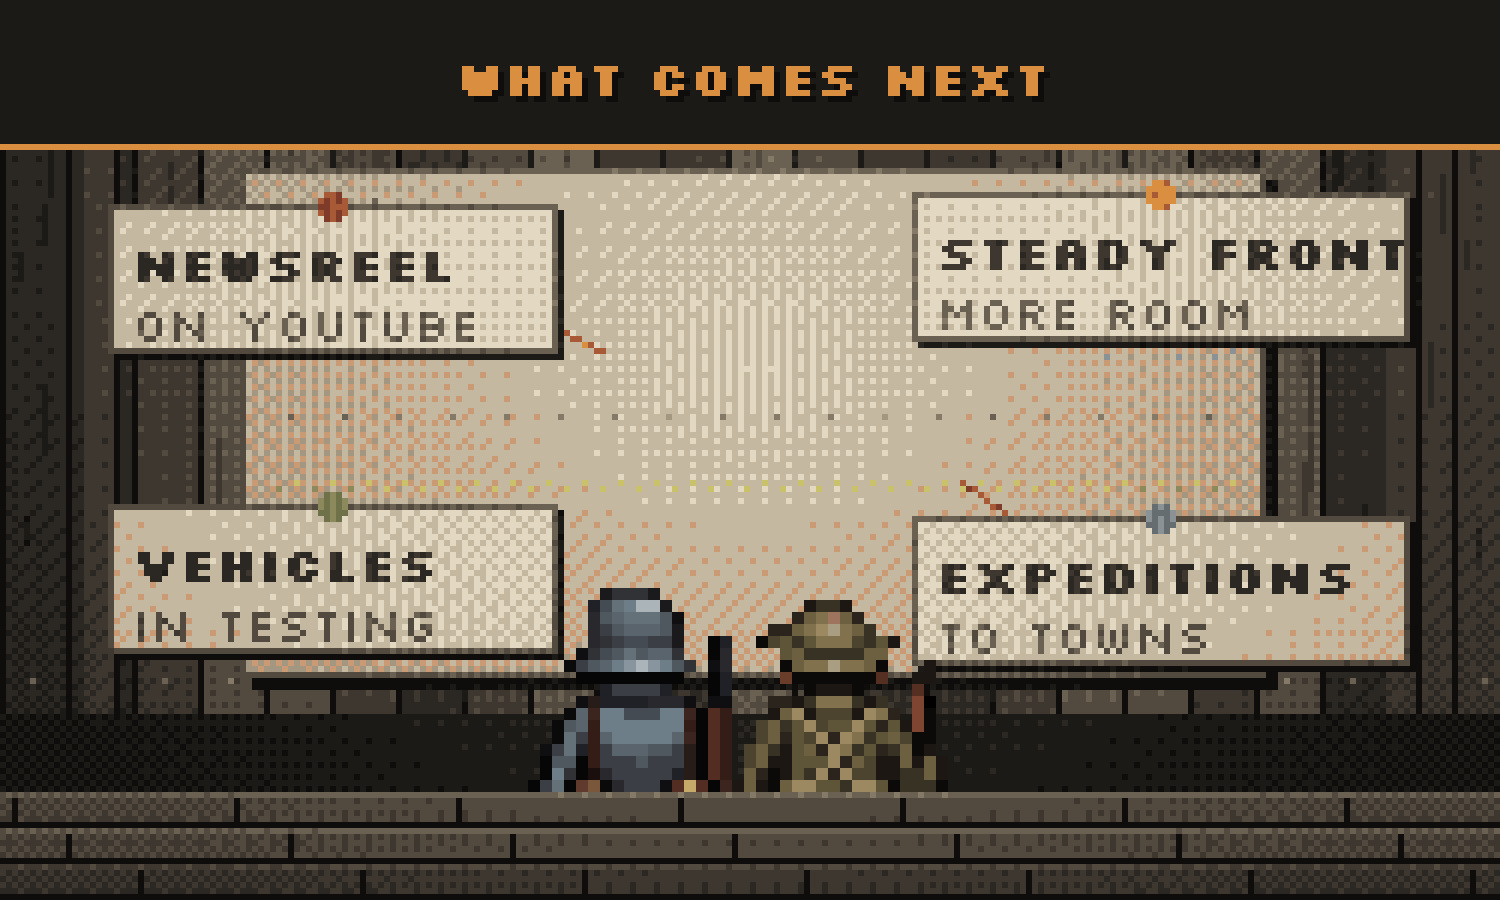
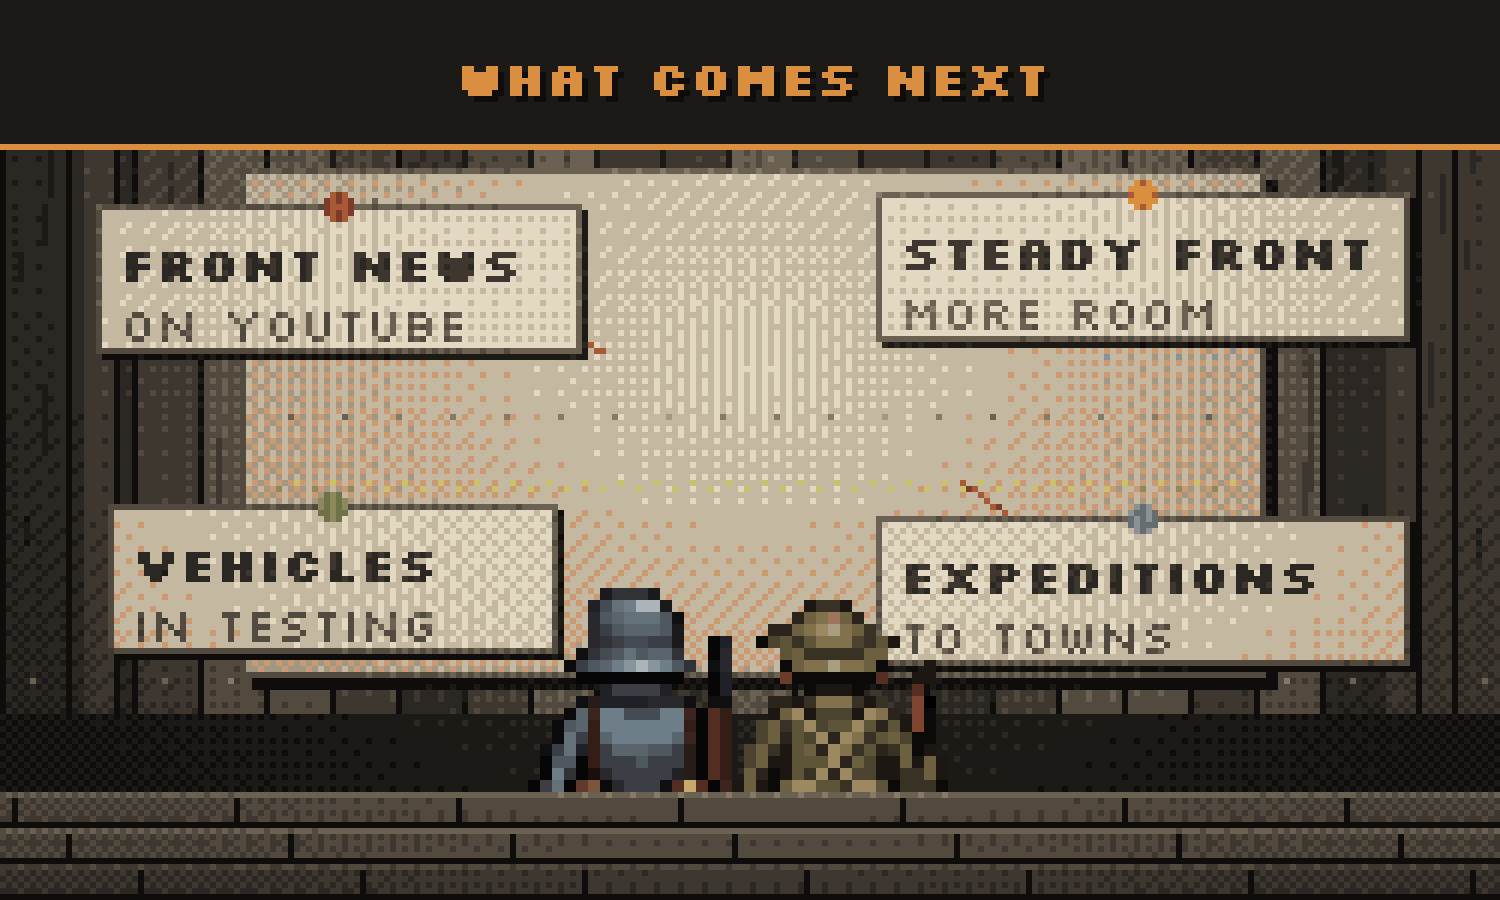
Patreon dopis: Front news, širší lístky
Claude-Session: https://claude.ai/code/session_01FWoRCTpAmETsDNoNBNsz1y

diff --git a/marketing/make_patreon_letter.py b/marketing/make_patreon_letter.py
@@ -100,10 +100,10 @@ def plans():
         d.rectangle((cx - 4, cy - 3, cx + 4, cy + 3), fill=P["mud3"]); d.point((cx, cy - 5), fill=P["mud3"])
     d.line((mx0 + 60, my0 + 30, mx0 + 26, my0 + 14), fill=P["rust"]); d.line((mx0 + 120, my0 + 52, mx1 - 28, my0 + 68), fill=P["rust"])
     # lístky s plány
-    note(d, 18, 34, 74, 24, "NEWSREEL", "on YouTube", P["rust"])
-    note(d, 152, 32, 82, 24, "STEADY FRONT", "more room", P["gold"])
+    note(d, 16, 34, 80, 24, "FRONT NEWS", "on YouTube", P["rust"])
+    note(d, 146, 32, 88, 24, "STEADY FRONT", "more room", P["gold"])
     note(d, 18, 84, 74, 24, "VEHICLES", "in testing", P["olive"])
-    note(d, 152, 86, 82, 24, "EXPEDITIONS", "to towns", P["steel"])
+    note(d, 146, 86, 88, 24, "EXPEDITIONS", "to towns", P["steel"])
     soldier(im, "hegemony_north.png", 74, 96)
     soldier(im, "concord_north.png", 108, 96)
     d = ImageDraw.Draw(im)
